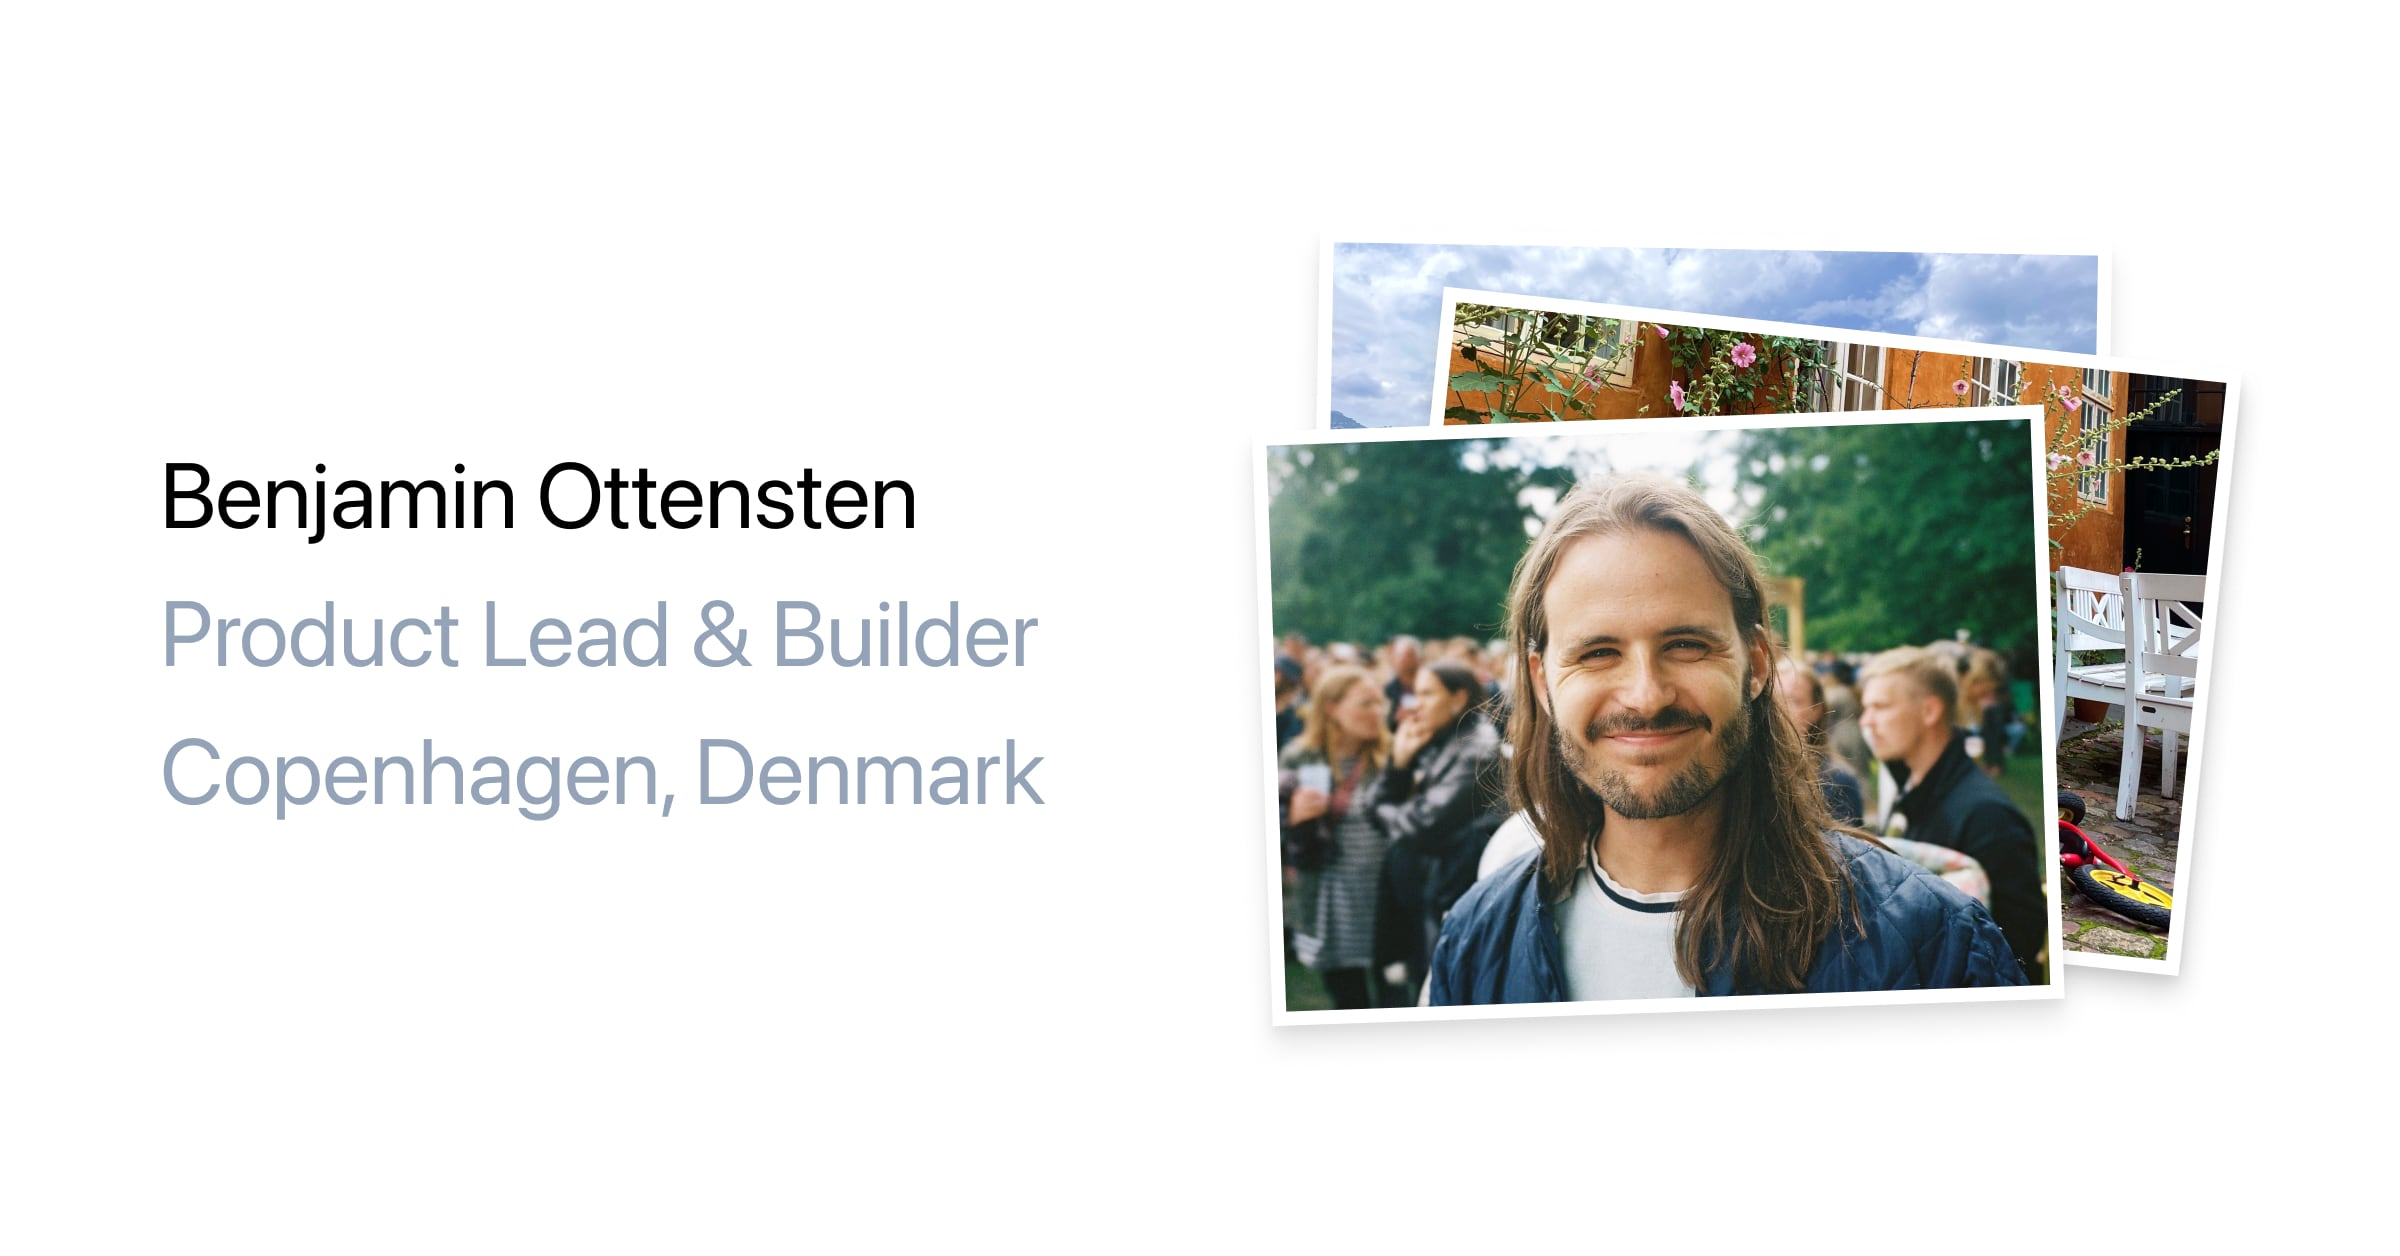
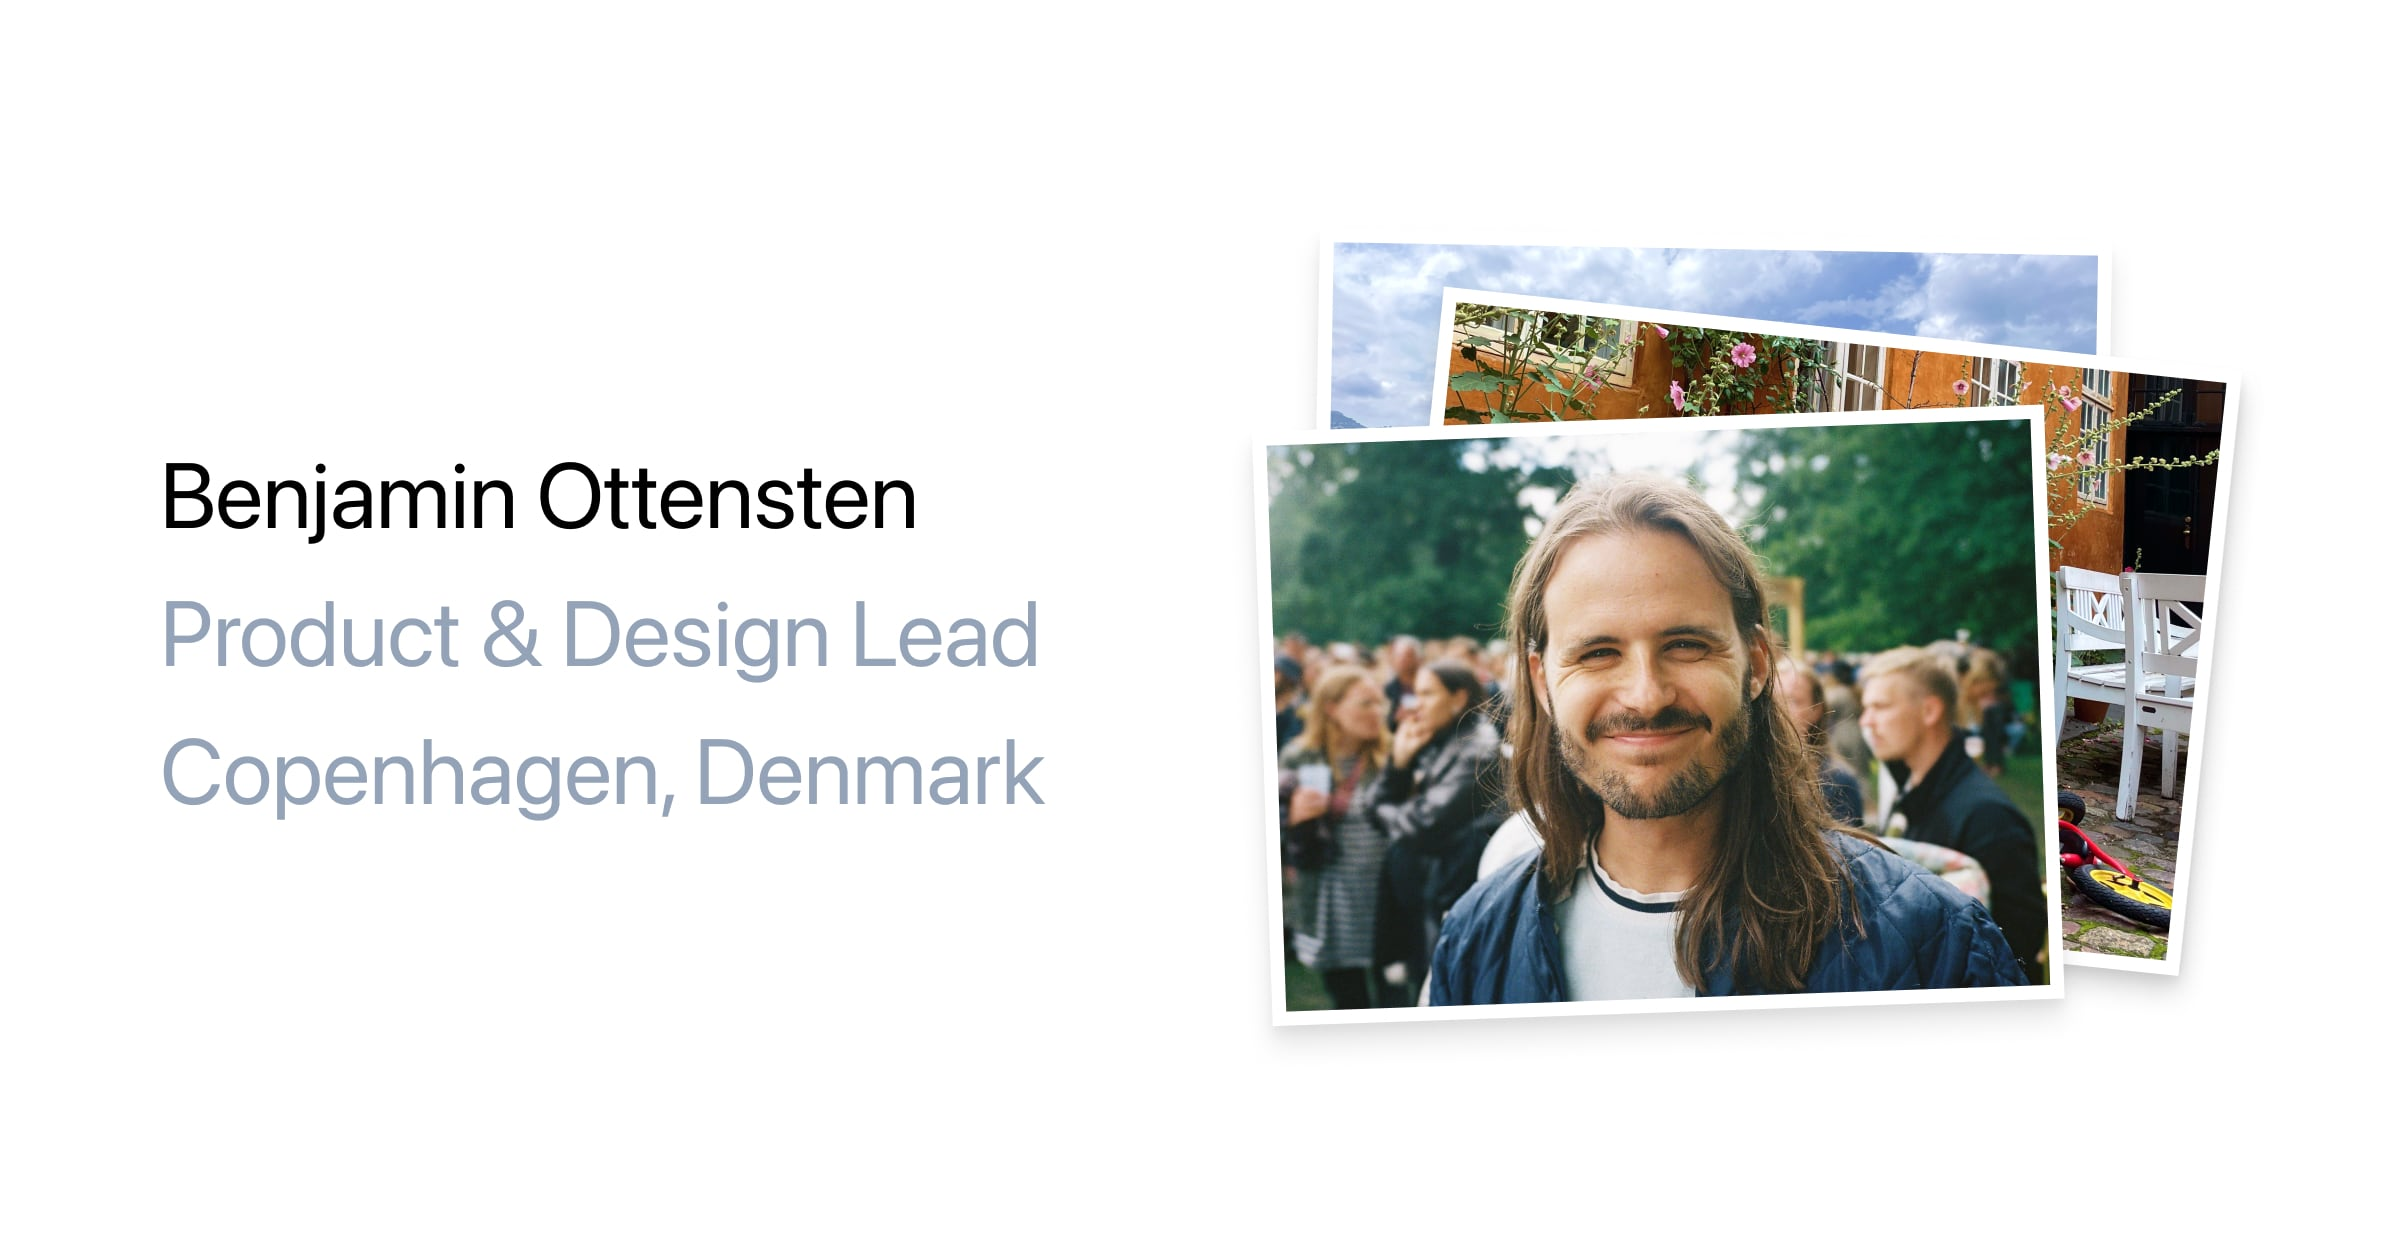
Update title

Changed region(s): [[0.1875, 0.4658, 0.4375, 0.5589]]

diff --git a/app.vue b/app.vue
@@ -20,8 +20,8 @@ useHead({
 });
 useSeoMeta({
   ogSiteName: "Benjamin Ottensten",
-  title: "Benjamin Ottensten, Product Lead & Builder",
-  ogTitle: "Benjamin Ottensten, Product Lead & Builder",
+  title: "Benjamin Ottensten, Product & Design Lead",
+  ogTitle: "Benjamin Ottensten, Product & Design Lead",
   description: "Experienced product builder based in Copenhagen with a background in product, design and frontend.",
   ogDescription: "Experienced product builder based in Copenhagen with a background in product, design and frontend.",
   ogImage: "https://benjaminottensten.com/img/social.jpg",

diff --git a/components/header.vue b/components/header.vue
@@ -6,7 +6,7 @@
         to="/"
         class="tap-highlight-none block no-underline outline-none ring-0 select-none hover:no-underline focus:outline-none focus-visible:outline-none focus:ring-0 focus-visible:ring-0 dark:text-neutral-100">
         <h1>Benjamin Ottensten</h1>
-        <div class="text-slate-400 dark:text-neutral-500">Product Lead & Builder</div>
+        <div class="text-slate-400 dark:text-neutral-500">Product & Design Lead</div>
         <div class="text-slate-400 dark:text-neutral-500">Copenhagen, Denmark</div>
       </NuxtLink>
     </div>

diff --git a/pages/life.vue b/pages/life.vue
@@ -41,8 +41,8 @@
 import { buildLifeGridItems, LIFE_ZOOM_FRAME, lifePhotos } from "~/data/life";
 
 useSeoMeta({
-  title: "Life | Benjamin Ottensten, Product Lead & Builder",
-  ogTitle: "Life | Benjamin Ottensten, Product Lead & Builder",
+  title: "Life | Benjamin Ottensten, Product & Design Lead",
+  ogTitle: "Life | Benjamin Ottensten, Product & Design Lead",
 });
 
 const gridItems = computed(() => buildLifeGridItems(lifePhotos));

diff --git a/pages/work.vue b/pages/work.vue
@@ -379,8 +379,8 @@
 </template>
 <script setup>
 useSeoMeta({
-  title: "Work | Benjamin Ottensten, Product Lead & Builder",
-  ogTitle: "Work | Benjamin Ottensten, Product Lead & Builder",
+  title: "Work | Benjamin Ottensten, Product & Design Lead",
+  ogTitle: "Work | Benjamin Ottensten, Product & Design Lead",
 });
 
 function scrollToTop() {

diff --git a/pages/index.vue b/pages/index.vue
@@ -102,8 +102,8 @@
 
 <script setup>
 useSeoMeta({
-  title: "Benjamin Ottensten, Product Lead & Builder",
-  ogTitle: "Benjamin Ottensten, Product Lead & Builder",
+  title: "Benjamin Ottensten, Product & Design Lead",
+  ogTitle: "Benjamin Ottensten, Product & Design Lead",
 });
 
 import { ref, onMounted } from "vue";
